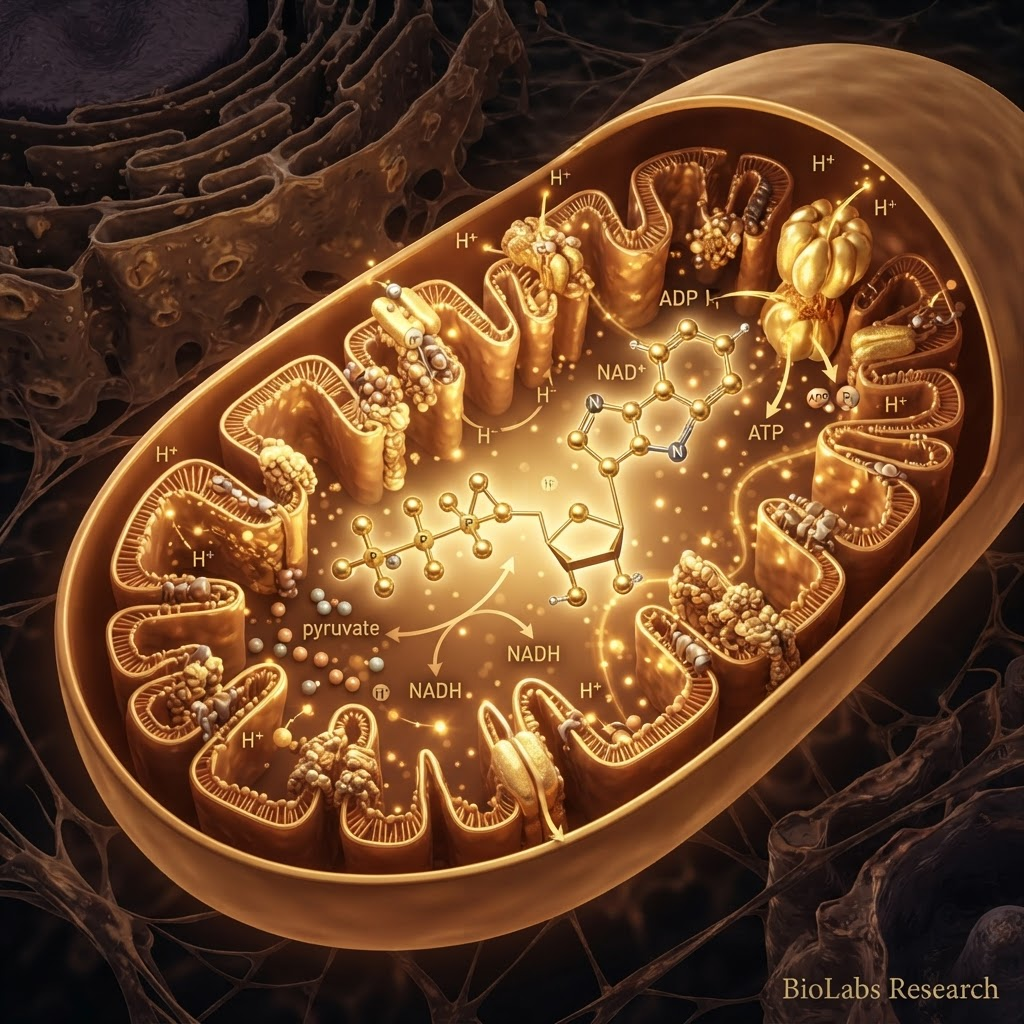
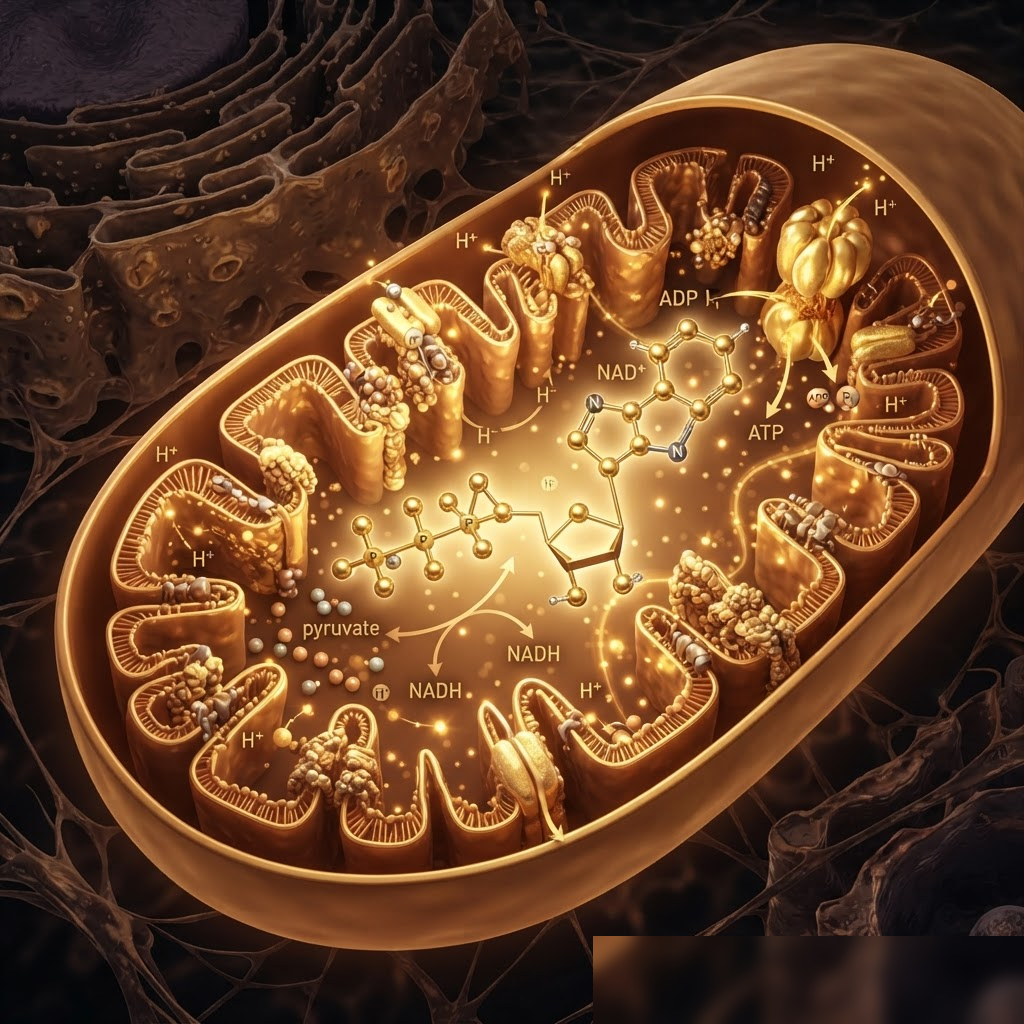
Blog: strip topic watermarks; article-img + card cover CSS (v=246)
Remove BioLabs Research corner watermarks from 11 topic heroes.
Replace blog-card contain/beige padding with object-fit cover at 220px.
Add shared article-img, author, TOC, related, and filter chip styles.

Changed region(s): [[0.7188, 0.9062, 1.0, 1.0], [0.5625, 0.9062, 0.6875, 1.0], [0.6562, 0.9688, 0.7188, 1.0]]

diff --git a/html/biolabs_style.css b/html/biolabs_style.css
@@ -5084,8 +5084,7 @@ button.product-card-mg.active{
 
 
 /* CRM blog card fog fix 2026-09-06 — no washed lifestyle thumbs */
-.blog-card-img{opacity:1!important}
-.blog-card-img img{opacity:1!important;filter:none!important;object-fit:contain!important;object-position:center!important;padding:12px!important;background:#F5F2ED!important}
+
 .jrnl-card img{opacity:1!important;filter:none!important;object-fit:contain!important;background:#F5F2ED}
 
 
@@ -5101,8 +5100,7 @@ button.product-card-mg.active{
 
 
 /* blog-no-fog-v219 */
-.blog-card-img,.blog-card-img img,.jrnl-card img{opacity:1!important;filter:none!important}
-.blog-card-img img,.jrnl-card img{object-fit:contain!important;background:#F5F2ED!important}
+
 
 /* nav-links-lower: Catalog/Science/Blog sit lower, even gaps, not riding high vs logo B */
 .nav-left{
@@ -5586,3 +5584,37 @@ a.nav-logo{
 .contact-hours-box{margin:24px 0 8px;padding:16px 18px;border:1px solid #e8e2d8;border-radius:12px;background:#fff}
 .nl-trust-row{display:flex;flex-wrap:wrap;gap:10px 14px;margin:14px 0 0;padding:0;list-style:none}
 .nl-trust-row li{font-size:12px;font-weight:600;color:#0d2137;background:#fff;border:1px solid #e8e2d8;border-radius:999px;padding:7px 12px}
+
+/* Blog overhaul 2026-09: card covers + article images */
+.blog-card-img{width:100%;height:220px;overflow:hidden;background:#0d2137;opacity:1!important}
+.blog-card-img img,.jrnl-card img{width:100%;height:100%;object-fit:cover!important;object-position:center!important;padding:0!important;background:transparent!important;opacity:1!important;filter:none!important}
+.article-img{width:100%;max-width:100%;height:auto;aspect-ratio:16/9;object-fit:cover;border-radius:12px;box-shadow:0 8px 24px rgba(13,33,55,.08);margin:32px 0 8px;display:block}
+.article-img-caption{font-size:13px;color:#6b6560;text-align:center;margin:0 0 28px;line-height:1.5;padding:0 8px}
+.article-thumb{width:100%!important;max-width:100%!important;margin:32px 0 8px!important;display:block;border-radius:12px;aspect-ratio:16/9;object-fit:cover;box-shadow:0 8px 24px rgba(13,33,55,.08)}
+.article-author{display:flex;align-items:center;gap:14px;margin:28px 0 8px;padding:16px 18px;background:#F7F3EB;border:1px solid #E8E2D8;border-radius:12px}
+.article-author-avatar{width:56px;height:56px;border-radius:50%;object-fit:cover;background:#F5F2ED;border:1px solid #E8E2D8}
+.article-author strong{display:block;color:#0d2137;font-size:15px}
+.article-author span{display:block;color:#6b6560;font-size:13px;margin-top:2px}
+.article-toc{background:#F7F3EB;border:1px solid #E8E2D8;border-radius:12px;padding:18px 22px;margin:24px 0 32px}
+.article-toc strong{display:block;font-size:14px;letter-spacing:.04em;text-transform:uppercase;color:#0d2137;margin-bottom:10px}
+.article-toc ol{margin:0 0 0 18px;padding:0}
+.article-toc li{margin:6px 0;font-size:14px}
+.article-toc a{color:#8B6914;font-weight:500;text-decoration:none}
+.article-toc a:hover{text-decoration:underline}
+.related-posts{margin:40px 0 16px}
+.related-posts h3{font-family:var(--font-display,inherit);font-size:20px;color:#0d2137;margin-bottom:16px}
+.related-grid{display:grid;grid-template-columns:repeat(3,1fr);gap:14px}
+.related-card{text-decoration:none;color:inherit;background:#F7F3EB;border-radius:12px;overflow:hidden;border:1px solid #E8E2D8;transition:transform .2s}
+.related-card:hover{transform:translateY(-2px)}
+.related-card img{width:100%;height:110px;object-fit:cover;display:block}
+.related-card span{display:block;padding:10px 12px;font-size:13px;line-height:1.35;color:#0d2137;font-weight:600}
+.blog-filters{max-width:1080px;margin:0 auto;padding:0 48px 8px;display:flex;flex-wrap:wrap;gap:10px;align-items:center}
+.blog-chip{border:1px solid #E2D4A8;background:#F5ECD7;color:#3E2B20;border-radius:999px;padding:7px 14px;font-size:12px;font-weight:600;letter-spacing:.03em;text-transform:uppercase;cursor:pointer}
+.blog-chip.active,.blog-chip:hover{background:#0d2137;color:#fff;border-color:#0d2137}
+.blog-search{flex:1;min-width:180px;border:1px solid #E8E2D8;border-radius:999px;padding:10px 16px;font-size:14px;background:#fff;color:#0d2137}
+.blog-tag{display:inline-block;font-size:11px;font-weight:600;letter-spacing:.04em;text-transform:uppercase;color:#3E2B20;background:#F5ECD7;border:1px solid #E2D4A8;border-radius:999px;padding:3px 10px;margin-bottom:10px}
+@media(max-width:768px){
+  .related-grid{grid-template-columns:1fr}
+  .blog-filters{padding:0 20px 8px}
+}
+

diff --git a/html/blog/epithalon-aging-research-peptide.html b/html/blog/epithalon-aging-research-peptide.html
@@ -36,7 +36,7 @@
 </script>
 <link rel="preconnect" href="https://fonts.googleapis.com"><link rel="preconnect" href="https://fonts.gstatic.com" crossorigin>
 <link href="https://fonts.googleapis.com/css2?family=Inter:wght@300;400;500;600;700;800&family=Saira:wght@600;700;800&family=Fraunces:opsz,wght@9..144,400;9..144,500;9..144,600&display=swap" rel="stylesheet">
-<link rel="stylesheet" href="/biolabs_style.css?v=245">
+<link rel="stylesheet" href="/biolabs_style.css?v=246">
 <style>
 .article-hero{padding:80px 48px 40px;text-align:center;max-width:780px;margin:0 auto}.article-hero h1{font-family:var(--font-logo);font-size:42px;font-weight:500;line-height:1.2;margin-bottom:16px;color:var(--ink)}.article-hero .meta{font-size:14px;color:var(--ink-muted);margin-bottom:8px}.article-hero .meta span{margin:0 8px}.article-body{max-width:720px;margin:0 auto;padding:0 48px 80px;font-size:17px;line-height:1.8;color:var(--ink-soft)}.article-body h2{font-family:var(--font-display);font-size:26px;font-weight:700;color:var(--ink);margin:48px 0 16px;line-height:1.3}.article-body h3{font-size:20px;font-weight:600;color:var(--ink);margin:32px 0 12px}.article-body p{margin-bottom:20px}.article-body ul{margin:0 0 20px 24px}.article-body li{margin-bottom:10px}.article-body strong{color:var(--ink)}.article-cta{background:var(--bg-warm);border-radius:var(--radius);padding:40px;text-align:center;margin:48px 0}.article-cta h3{font-family:var(--font-logo);font-size:24px;margin-bottom:12px;color:var(--ink)}.article-cta p{color:var(--ink-soft);margin-bottom:24px}.article-cta a{display:inline-block;background:var(--ink);color:#fff;padding:14px 32px;border-radius:var(--radius-pill);font-weight:600;font-size:15px;text-decoration:none}.article-footer{border-top:1px solid var(--border-light);padding:32px 48px;text-align:center;max-width:720px;margin:0 auto}.article-footer a{color:var(--bronze);font-weight:500}.ruo-note{background:#FFF9E6;border:1px solid #E8DFA8;border-radius:var(--radius-sm);padding:16px 20px;margin:24px 0;font-size:14px;color:var(--ink-soft)}.ruo-note strong{color:var(--brown)}@media(max-width:768px){.article-hero{padding:60px 20px 30px}.article-hero h1{font-size:32px}.article-body{padding:0 20px 60px;font-size:16px}}
 

diff --git a/html/blog/mots-c-mitochondrial-research-peptide.html b/html/blog/mots-c-mitochondrial-research-peptide.html
@@ -36,7 +36,7 @@
 </script>
 <link rel="preconnect" href="https://fonts.googleapis.com"><link rel="preconnect" href="https://fonts.gstatic.com" crossorigin>
 <link href="https://fonts.googleapis.com/css2?family=Inter:wght@300;400;500;600;700;800&family=Saira:wght@600;700;800&family=Fraunces:opsz,wght@9..144,400;9..144,500;9..144,600&display=swap" rel="stylesheet">
-<link rel="stylesheet" href="/biolabs_style.css?v=245">
+<link rel="stylesheet" href="/biolabs_style.css?v=246">
 <style>
 .article-hero{padding:80px 48px 40px;text-align:center;max-width:780px;margin:0 auto}.article-hero h1{font-family:var(--font-logo);font-size:42px;font-weight:500;line-height:1.2;margin-bottom:16px;color:var(--ink)}.article-hero .meta{font-size:14px;color:var(--ink-muted);margin-bottom:8px}.article-hero .meta span{margin:0 8px}.article-body{max-width:720px;margin:0 auto;padding:0 48px 80px;font-size:17px;line-height:1.8;color:var(--ink-soft)}.article-body h2{font-family:var(--font-display);font-size:26px;font-weight:700;color:var(--ink);margin:48px 0 16px;line-height:1.3}.article-body h3{font-size:20px;font-weight:600;color:var(--ink);margin:32px 0 12px}.article-body p{margin-bottom:20px}.article-body ul{margin:0 0 20px 24px}.article-body li{margin-bottom:10px}.article-body strong{color:var(--ink)}.article-cta{background:var(--bg-warm);border-radius:var(--radius);padding:40px;text-align:center;margin:48px 0}.article-cta h3{font-family:var(--font-logo);font-size:24px;margin-bottom:12px;color:var(--ink)}.article-cta p{color:var(--ink-soft);margin-bottom:24px}.article-cta a{display:inline-block;background:var(--ink);color:#fff;padding:14px 32px;border-radius:var(--radius-pill);font-weight:600;font-size:15px;text-decoration:none}.article-footer{border-top:1px solid var(--border-light);padding:32px 48px;text-align:center;max-width:720px;margin:0 auto}.article-footer a{color:var(--bronze);font-weight:500}.ruo-note{background:#FFF9E6;border:1px solid #E8DFA8;border-radius:var(--radius-sm);padding:16px 20px;margin:24px 0;font-size:14px;color:var(--ink-soft)}.ruo-note strong{color:var(--brown)}@media(max-width:768px){.article-hero{padding:60px 20px 30px}.article-hero h1{font-size:32px}.article-body{padding:0 20px 60px;font-size:16px}}
 

diff --git a/html/blog/retatrutide-metabolic-research.html b/html/blog/retatrutide-metabolic-research.html
@@ -36,7 +36,7 @@
 </script>
 <link rel="preconnect" href="https://fonts.googleapis.com"><link rel="preconnect" href="https://fonts.gstatic.com" crossorigin>
 <link href="https://fonts.googleapis.com/css2?family=Inter:wght@300;400;500;600;700;800&family=Saira:wght@600;700;800&family=Fraunces:opsz,wght@9..144,400;9..144,500;9..144,600&display=swap" rel="stylesheet">
-<link rel="stylesheet" href="/biolabs_style.css?v=245">
+<link rel="stylesheet" href="/biolabs_style.css?v=246">
 <style>
 .article-hero{padding:80px 48px 40px;text-align:center;max-width:780px;margin:0 auto}.article-hero h1{font-family:var(--font-logo);font-size:42px;font-weight:500;line-height:1.2;margin-bottom:16px;color:var(--ink)}.article-hero .meta{font-size:14px;color:var(--ink-muted);margin-bottom:8px}.article-hero .meta span{margin:0 8px}.article-body{max-width:720px;margin:0 auto;padding:0 48px 80px;font-size:17px;line-height:1.8;color:var(--ink-soft)}.article-body h2{font-family:var(--font-display);font-size:26px;font-weight:700;color:var(--ink);margin:48px 0 16px;line-height:1.3}.article-body h3{font-size:20px;font-weight:600;color:var(--ink);margin:32px 0 12px}.article-body p{margin-bottom:20px}.article-body ul{margin:0 0 20px 24px}.article-body li{margin-bottom:10px}.article-body strong{color:var(--ink)}.article-cta{background:var(--bg-warm);border-radius:var(--radius);padding:40px;text-align:center;margin:48px 0}.article-cta h3{font-family:var(--font-logo);font-size:24px;margin-bottom:12px;color:var(--ink)}.article-cta p{color:var(--ink-soft);margin-bottom:24px}.article-cta a{display:inline-block;background:var(--ink);color:#fff;padding:14px 32px;border-radius:var(--radius-pill);font-weight:600;font-size:15px;text-decoration:none}.article-footer{border-top:1px solid var(--border-light);padding:32px 48px;text-align:center;max-width:720px;margin:0 auto}.article-footer a{color:var(--bronze);font-weight:500}.ruo-note{background:#FFF9E6;border:1px solid #E8DFA8;border-radius:var(--radius-sm);padding:16px 20px;margin:24px 0;font-size:14px;color:var(--ink-soft)}.ruo-note strong{color:var(--brown)}@media(max-width:768px){.article-hero{padding:60px 20px 30px}.article-hero h1{font-size:32px}.article-body{padding:0 20px 60px;font-size:16px}}
 

diff --git a/html/blog/tb-500-thymosin-beta-4-research.html b/html/blog/tb-500-thymosin-beta-4-research.html
@@ -36,7 +36,7 @@
 </script>
 <link rel="preconnect" href="https://fonts.googleapis.com"><link rel="preconnect" href="https://fonts.gstatic.com" crossorigin>
 <link href="https://fonts.googleapis.com/css2?family=Inter:wght@300;400;500;600;700;800&family=Saira:wght@600;700;800&family=Fraunces:opsz,wght@9..144,400;9..144,500;9..144,600&display=swap" rel="stylesheet">
-<link rel="stylesheet" href="/biolabs_style.css?v=245">
+<link rel="stylesheet" href="/biolabs_style.css?v=246">
 <style>
 .article-hero{padding:80px 48px 40px;text-align:center;max-width:780px;margin:0 auto}.article-hero h1{font-family:var(--font-logo);font-size:42px;font-weight:500;line-height:1.2;margin-bottom:16px;color:var(--ink)}.article-hero .meta{font-size:14px;color:var(--ink-muted);margin-bottom:8px}.article-hero .meta span{margin:0 8px}.article-body{max-width:720px;margin:0 auto;padding:0 48px 80px;font-size:17px;line-height:1.8;color:var(--ink-soft)}.article-body h2{font-family:var(--font-display);font-size:26px;font-weight:700;color:var(--ink);margin:48px 0 16px;line-height:1.3}.article-body h3{font-size:20px;font-weight:600;color:var(--ink);margin:32px 0 12px}.article-body p{margin-bottom:20px}.article-body ul{margin:0 0 20px 24px}.article-body li{margin-bottom:10px}.article-body strong{color:var(--ink)}.article-cta{background:var(--bg-warm);border-radius:var(--radius);padding:40px;text-align:center;margin:48px 0}.article-cta h3{font-family:var(--font-logo);font-size:24px;margin-bottom:12px;color:var(--ink)}.article-cta p{color:var(--ink-soft);margin-bottom:24px}.article-cta a{display:inline-block;background:var(--ink);color:#fff;padding:14px 32px;border-radius:var(--radius-pill);font-weight:600;font-size:15px;text-decoration:none}.article-footer{border-top:1px solid var(--border-light);padding:32px 48px;text-align:center;max-width:720px;margin:0 auto}.article-footer a{color:var(--bronze);font-weight:500}.ruo-note{background:#FFF9E6;border:1px solid #E8DFA8;border-radius:var(--radius-sm);padding:16px 20px;margin:24px 0;font-size:14px;color:var(--ink-soft)}.ruo-note strong{color:var(--brown)}@media(max-width:768px){.article-hero{padding:60px 20px 30px}.article-hero h1{font-size:32px}.article-body{padding:0 20px 60px;font-size:16px}}
 

diff --git a/html/blog/index.html b/html/blog/index.html
@@ -28,7 +28,7 @@
 </script>
 <link rel="preconnect" href="https://fonts.googleapis.com"><link rel="preconnect" href="https://fonts.gstatic.com" crossorigin>
 <link href="https://fonts.googleapis.com/css2?family=Inter:wght@300;400;500;600;700;800&family=Saira:wght@600;700;800&family=Fraunces:opsz,wght@9..144,400;9..144,500;9..144,600&display=swap" rel="stylesheet">
-<link rel="stylesheet" href="/biolabs_style.css?v=245">
+<link rel="stylesheet" href="/biolabs_style.css?v=246">
 <style>
 .blog-grid{max-width:1080px;margin:0 auto;padding:48px;display:grid;grid-template-columns:repeat(auto-fill,minmax(320px,1fr));gap:24px}
 .blog-card{background:var(--bg-warm);border-radius:var(--radius);overflow:hidden;transition:var(--transition);text-decoration:none;color:inherit}

diff --git a/html/blog/aod-9604-hgh-fragment-identity.html b/html/blog/aod-9604-hgh-fragment-identity.html
@@ -55,7 +55,7 @@
 <link rel="preconnect" href="https://fonts.googleapis.com">
 <link rel="preconnect" href="https://fonts.gstatic.com" crossorigin>
 <link href="https://fonts.googleapis.com/css2?family=Inter:wght@300;400;500;600;700;800&family=Saira:wght@600;700;800&family=Fraunces:opsz,wght@9..144,400;9..144,500;9..144,600&display=swap" rel="stylesheet">
-<link rel="stylesheet" href="/biolabs_style.css?v=245">
+<link rel="stylesheet" href="/biolabs_style.css?v=246">
 <style>
 .article-hero{padding:80px 48px 40px;text-align:center;max-width:780px;margin:0 auto}
 .article-hero h1{font-family:var(--font-logo);font-size:42px;font-weight:500;line-height:1.2;margin-bottom:16px;color:var(--ink)}

diff --git a/html/blog/bpc-157-tb-500-blend-identity.html b/html/blog/bpc-157-tb-500-blend-identity.html
@@ -55,7 +55,7 @@
 <link rel="preconnect" href="https://fonts.googleapis.com">
 <link rel="preconnect" href="https://fonts.gstatic.com" crossorigin>
 <link href="https://fonts.googleapis.com/css2?family=Inter:wght@300;400;500;600;700;800&family=Saira:wght@600;700;800&family=Fraunces:opsz,wght@9..144,400;9..144,500;9..144,600&display=swap" rel="stylesheet">
-<link rel="stylesheet" href="/biolabs_style.css?v=245">
+<link rel="stylesheet" href="/biolabs_style.css?v=246">
 <style>
 .article-hero{padding:80px 48px 40px;text-align:center;max-width:780px;margin:0 auto}
 .article-hero h1{font-family:var(--font-logo);font-size:42px;font-weight:500;line-height:1.2;margin-bottom:16px;color:var(--ink)}

diff --git a/html/blog/buying-research-peptides-online-guide-2026.html b/html/blog/buying-research-peptides-online-guide-2026.html
@@ -56,7 +56,7 @@
 <link rel="preconnect" href="https://fonts.googleapis.com">
 <link rel="preconnect" href="https://fonts.gstatic.com" crossorigin>
 <link href="https://fonts.googleapis.com/css2?family=Inter:wght@300;400;500;600;700;800&family=Saira:wght@600;700;800&family=Fraunces:opsz,wght@9..144,400;9..144,500;9..144,600&display=swap" rel="stylesheet">
-<link rel="stylesheet" href="/biolabs_style.css?v=245">
+<link rel="stylesheet" href="/biolabs_style.css?v=246">
 <style>
 .article-hero{padding:80px 48px 40px;text-align:center;max-width:780px;margin:0 auto}
 .article-hero h1{font-family:var(--font-logo);font-size:42px;font-weight:500;line-height:1.2;margin-bottom:16px;color:var(--ink)}

diff --git a/html/blog/catalog-skus-vs-research-analogues.html b/html/blog/catalog-skus-vs-research-analogues.html
@@ -55,7 +55,7 @@
 <link rel="preconnect" href="https://fonts.googleapis.com">
 <link rel="preconnect" href="https://fonts.gstatic.com" crossorigin>
 <link href="https://fonts.googleapis.com/css2?family=Inter:wght@300;400;500;600;700;800&family=Saira:wght@600;700;800&family=Fraunces:opsz,wght@9..144,400;9..144,500;9..144,600&display=swap" rel="stylesheet">
-<link rel="stylesheet" href="/biolabs_style.css?v=245">
+<link rel="stylesheet" href="/biolabs_style.css?v=246">
 <style>
 .article-hero{padding:80px 48px 40px;text-align:center;max-width:780px;margin:0 auto}
 .article-hero h1{font-family:var(--font-logo);font-size:42px;font-weight:500;line-height:1.2;margin-bottom:16px;color:var(--ink)}

diff --git a/html/blog/cjc-1295-dac-vs-modified-grf-identity.html b/html/blog/cjc-1295-dac-vs-modified-grf-identity.html
@@ -55,7 +55,7 @@
 <link rel="preconnect" href="https://fonts.googleapis.com">
 <link rel="preconnect" href="https://fonts.gstatic.com" crossorigin>
 <link href="https://fonts.googleapis.com/css2?family=Inter:wght@300;400;500;600;700;800&family=Saira:wght@600;700;800&family=Fraunces:opsz,wght@9..144,400;9..144,500;9..144,600&display=swap" rel="stylesheet">
-<link rel="stylesheet" href="/biolabs_style.css?v=245">
+<link rel="stylesheet" href="/biolabs_style.css?v=246">
 <style>
 .article-hero{padding:80px 48px 40px;text-align:center;max-width:780px;margin:0 auto}
 .article-hero h1{font-family:var(--font-logo);font-size:42px;font-weight:500;line-height:1.2;margin-bottom:16px;color:var(--ink)}

diff --git a/html/blog/curcumin-phytosome-identity.html b/html/blog/curcumin-phytosome-identity.html
@@ -55,7 +55,7 @@
 <link rel="preconnect" href="https://fonts.googleapis.com">
 <link rel="preconnect" href="https://fonts.gstatic.com" crossorigin>
 <link href="https://fonts.googleapis.com/css2?family=Inter:wght@300;400;500;600;700;800&family=Saira:wght@600;700;800&family=Fraunces:opsz,wght@9..144,400;9..144,500;9..144,600&display=swap" rel="stylesheet">
-<link rel="stylesheet" href="/biolabs_style.css?v=245">
+<link rel="stylesheet" href="/biolabs_style.css?v=246">
 <style>
 .article-hero{padding:80px 48px 40px;text-align:center;max-width:780px;margin:0 auto}
 .article-hero h1{font-family:var(--font-logo);font-size:42px;font-weight:500;line-height:1.2;margin-bottom:16px;color:var(--ink)}
